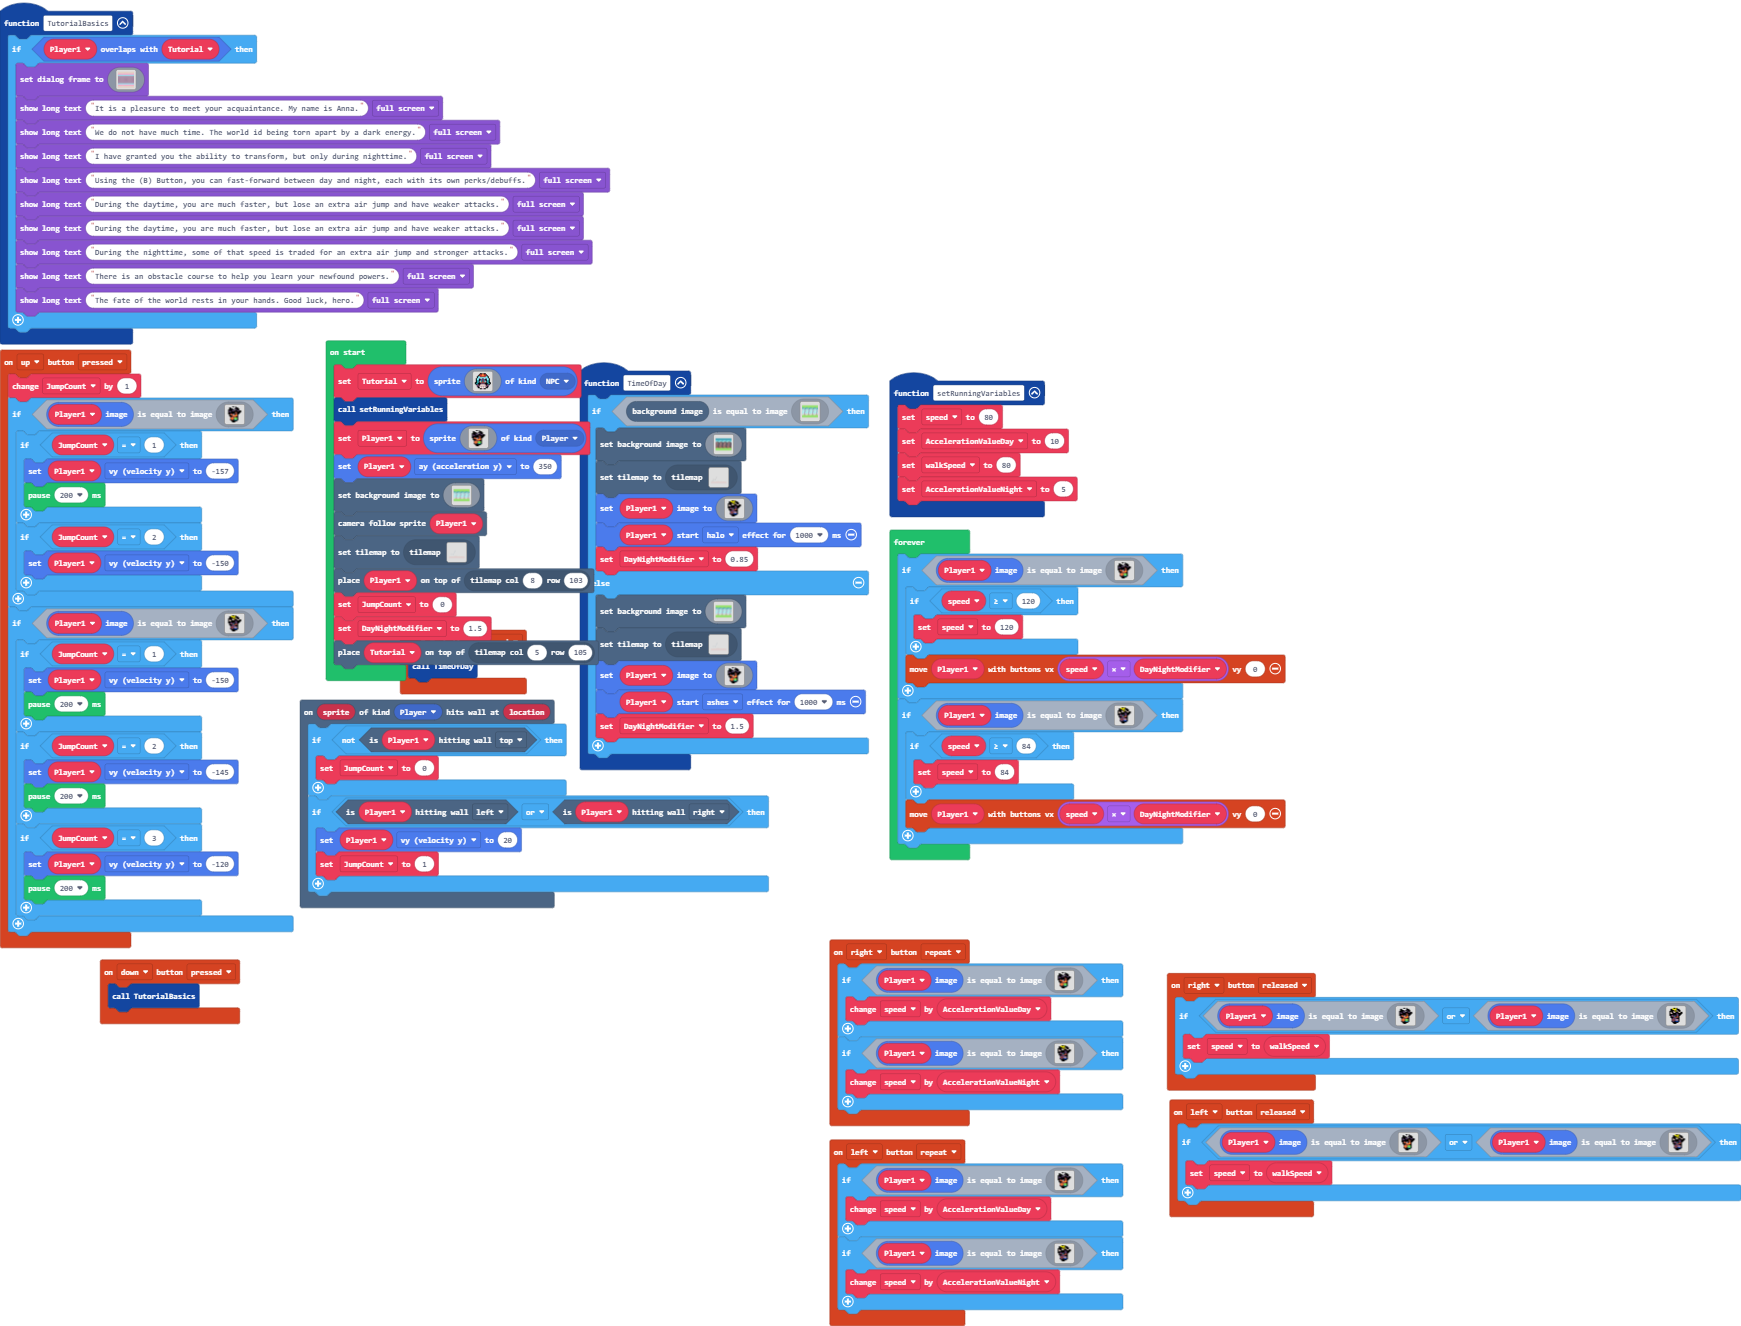
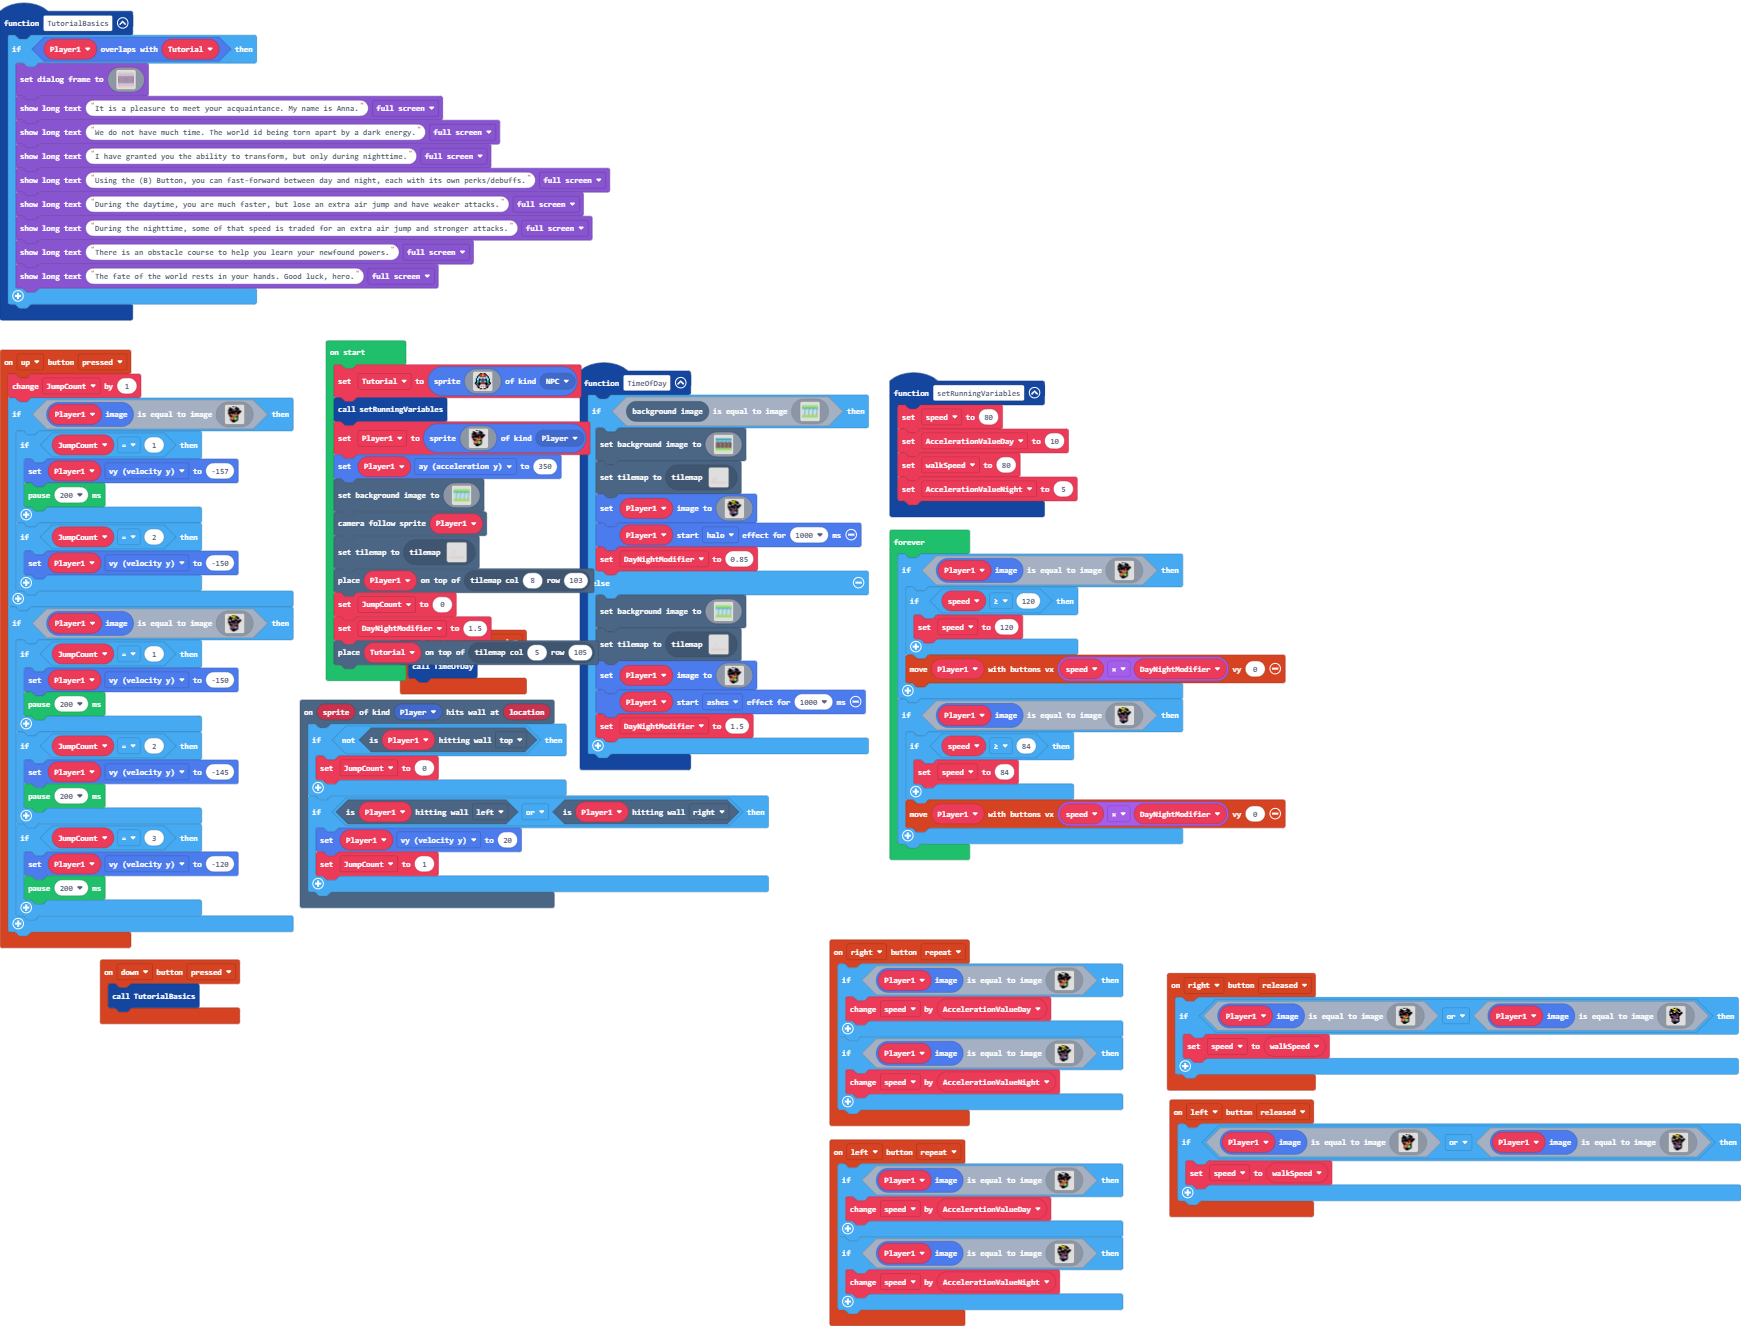
Update main.blocks, main.ts

Changed region(s): [[0.0, 0.1546, 0.3412, 0.2783]]

diff --git a/main.ts b/main.ts
@@ -62,7 +62,6 @@ function TutorialBasics () {
         game.showLongText("I have granted you the ability to transform, but only during nighttime.", DialogLayout.Full)
         game.showLongText("Using the (B) Button, you can fast-forward between day and night, each with its own perks/debuffs.", DialogLayout.Full)
         game.showLongText("During the daytime, you are much faster, but lose an extra air jump and have weaker attacks.", DialogLayout.Full)
-        game.showLongText("During the daytime, you are much faster, but lose an extra air jump and have weaker attacks.", DialogLayout.Full)
         game.showLongText("During the nighttime, some of that speed is traded for an extra air jump and stronger attacks.", DialogLayout.Full)
         game.showLongText("There is an obstacle course to help you learn your newfound powers.", DialogLayout.Full)
         game.showLongText("The fate of the world rests in your hands. Good luck, hero.", DialogLayout.Full)
